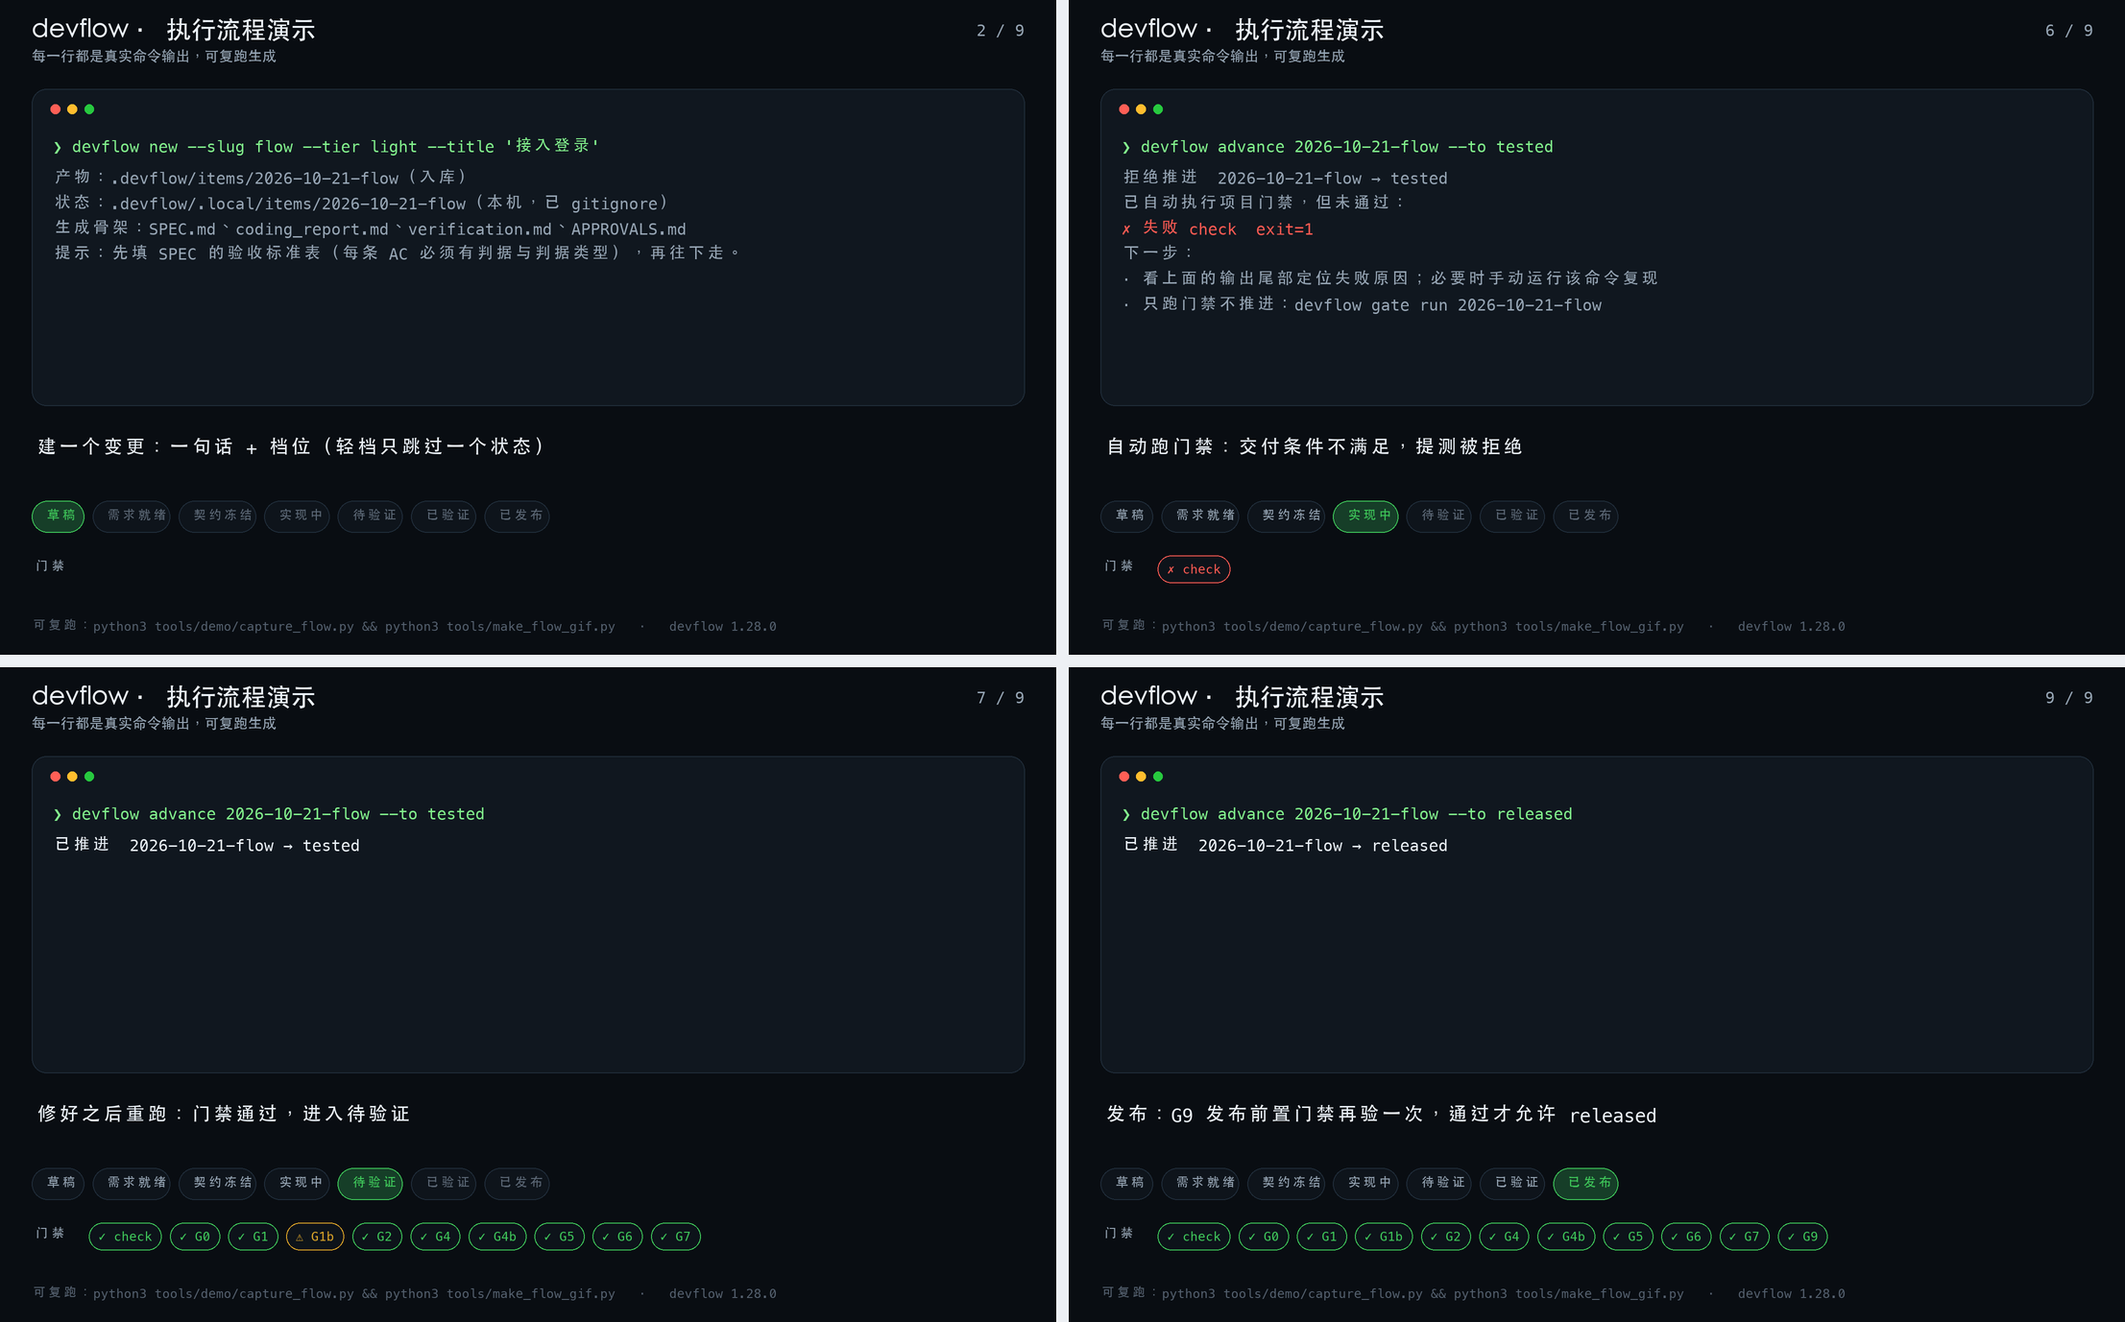
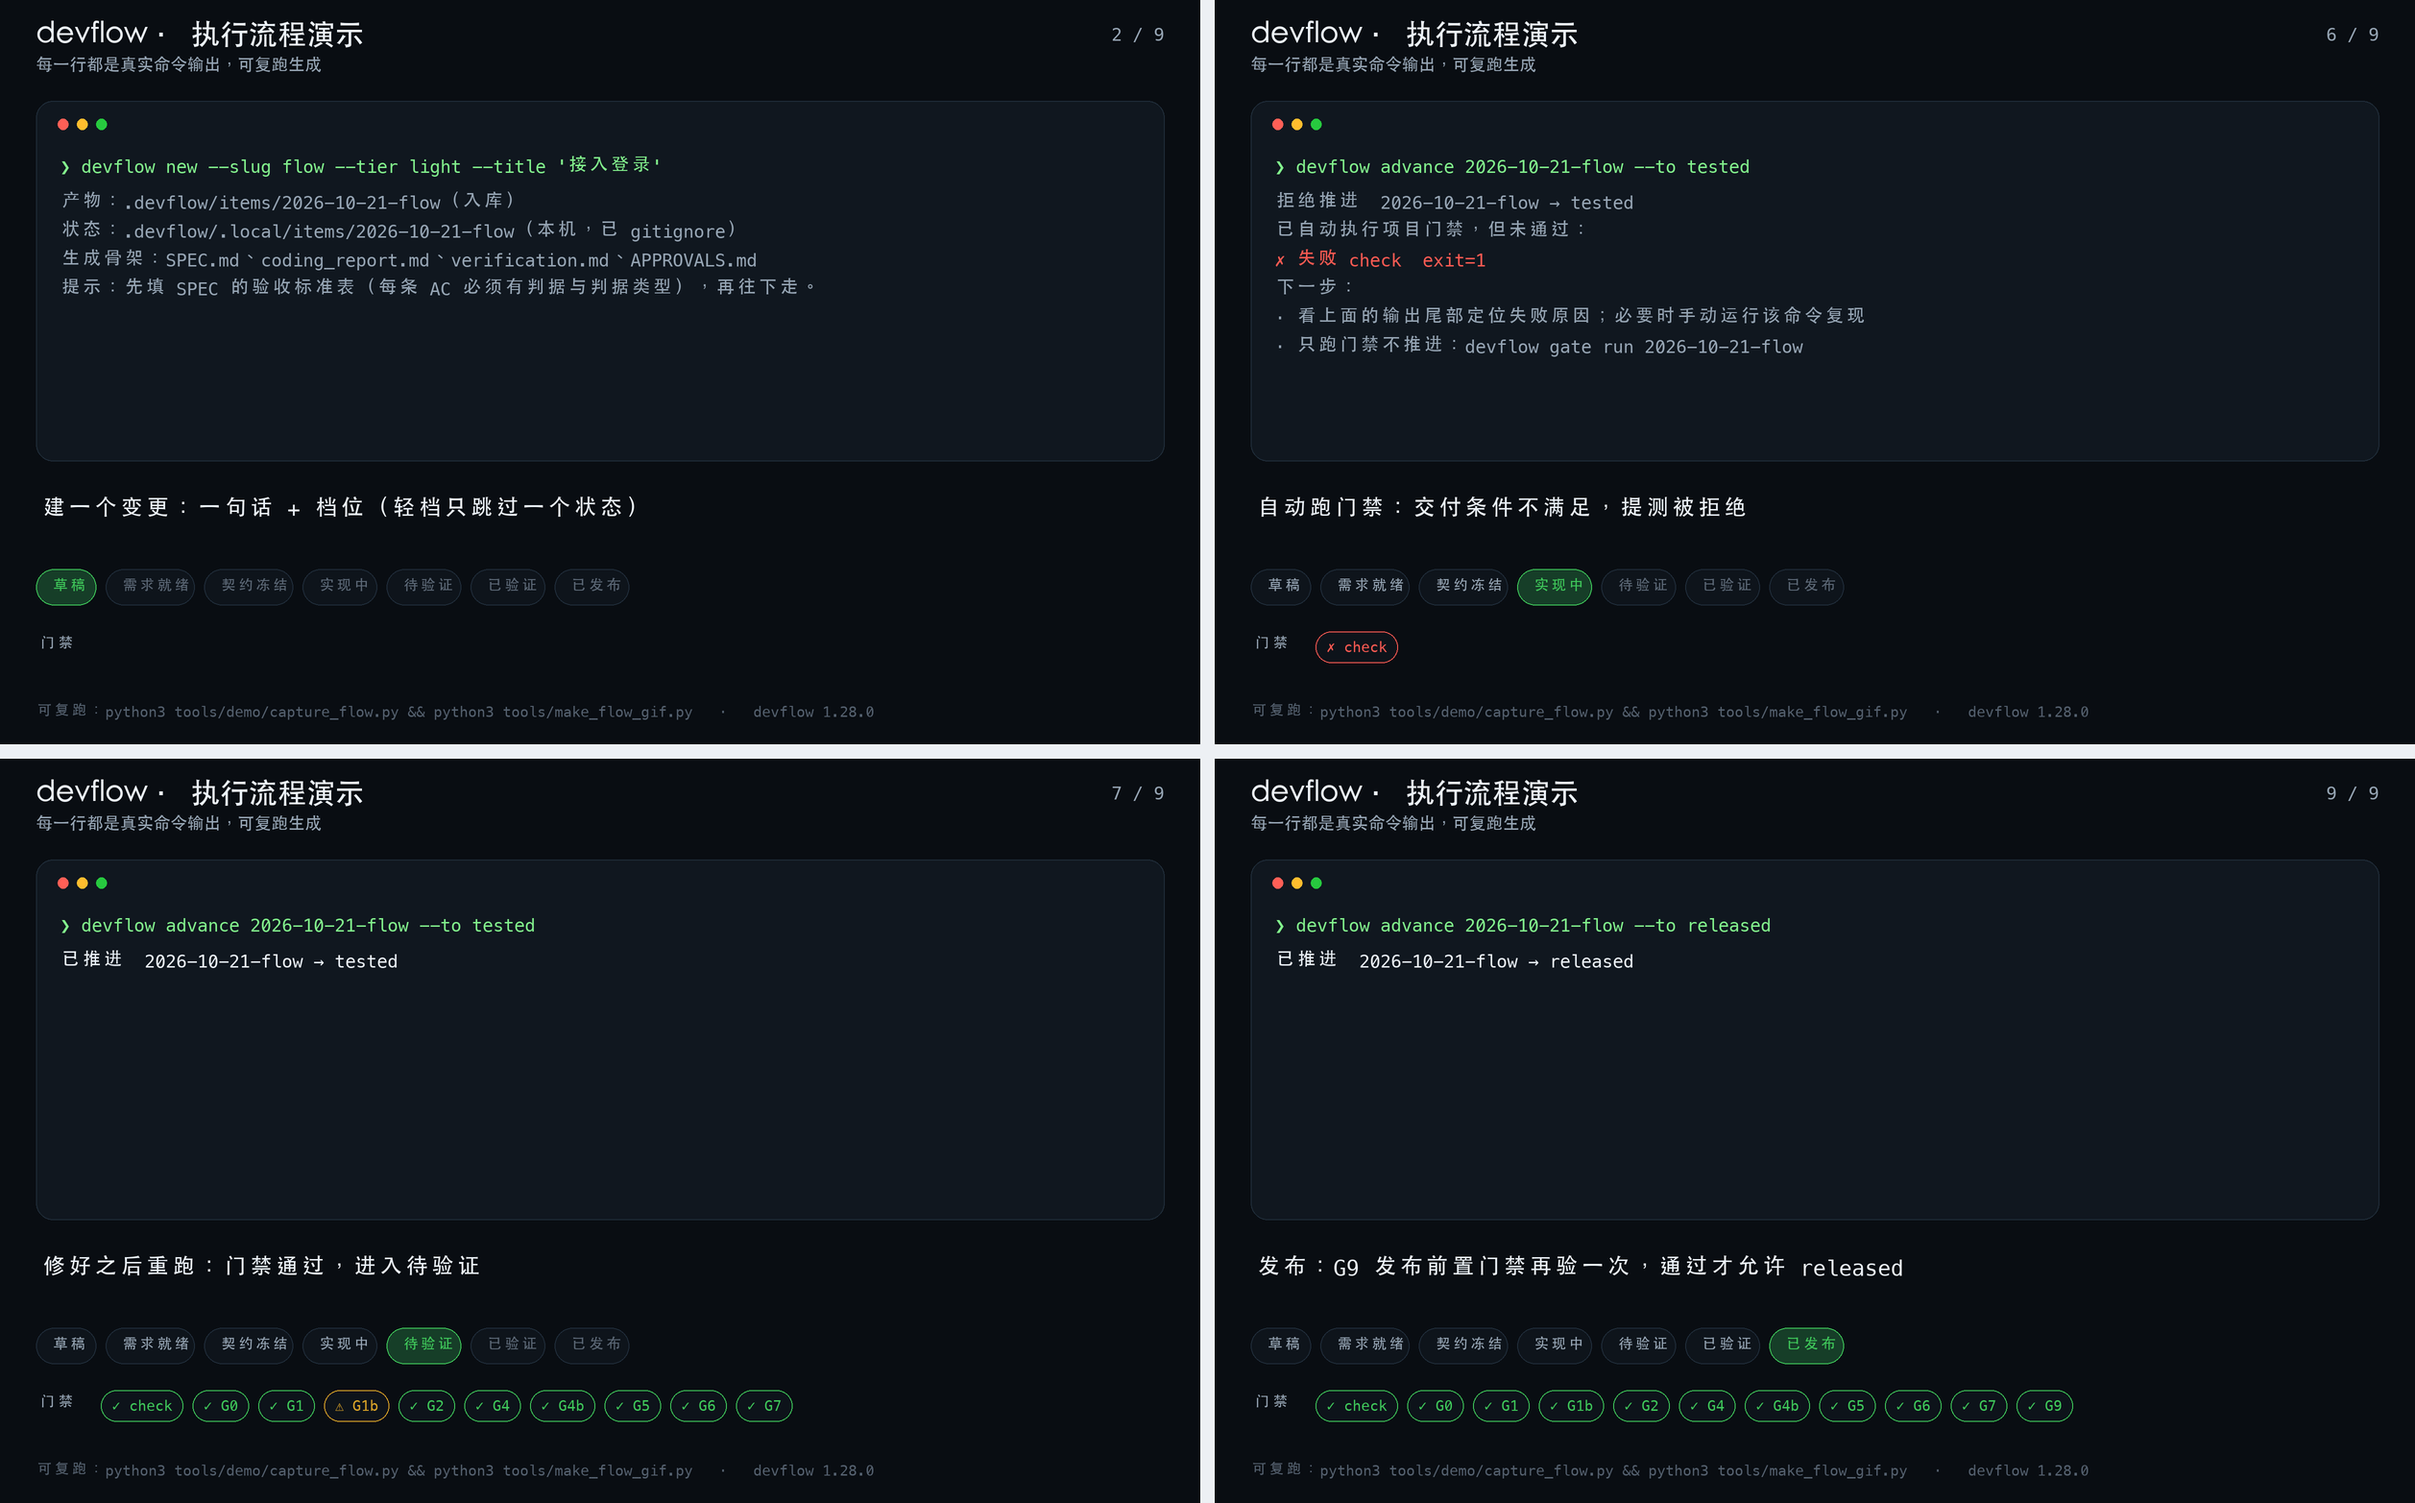
docs(demo): 首屏改静图（四格故事板），点击看动图
- README 顶部用 story.png（406KB）+ 链接到 GIF（1250×775，3.1MB）
- 动图放大到 1.25 倍，点开更清晰；时长标注改为 11 秒

diff --git a/tools/make_flow_gif.py b/tools/make_flow_gif.py
@@ -23,7 +23,7 @@ from PIL import Image, ImageDraw, ImageFont
 
 # 逻辑画布（设计坐标）
 LW, LH = 1000, 620
-SCALE = 1.1      # 输出尺寸 = 逻辑 × SCALE（9 步更长了，1100×682 兼顾清晰与体积）
+SCALE = 1.25     # 输出尺寸 = 逻辑 × SCALE（首屏用 PNG，GIF 可以更大更清晰）
 SS = 2           # 超采样倍数
 K = SCALE * SS   # 绘制时所有尺寸乘 K，最后缩 SS 倍
 

diff --git a/README.md b/README.md
@@ -9,9 +9,11 @@
 > **第一次用？直接看 [`docs/00-quickstart.md`](docs/00-quickstart.md)** —— 三条命令装好、从提需求到发版的操作指南。
 > 需要契约判定、看板插件、多仓工作区等增强时，看 [`docs/08-advanced.md`](docs/08-advanced.md)。
 
-## 看它怎么跑（约 15 秒）
+## 看它怎么跑（约 11 秒）
 
-![devflow 执行流程演示](docs/demo-flow.gif)
+[![devflow 执行流程：四格故事板（点击看动图）](docs/demo-flow-story.png)](docs/demo-flow.gif)
+
+<sub>**首屏是静图**（四格故事板，最清晰）；**点图看完整动图**（1250×775，约 3MB）。</sub>
 
 一个变更从建立到发布：**草稿 → 需求就绪 → 实现中**（提测时门禁不满足，**被拒**）**→ 待验证 → 已验证 → 已发布**。
 底部状态轨会逐节点亮起；发布前 **G9** 再验一次。轻档只跳过「契约冻结」一个状态——轨道上不会点亮的不是没跑，是**按档位跳过**。
@@ -22,8 +24,7 @@ python3 tools/demo/capture_flow.py --out docs/demo-flow.json   # 真跑一遍并
 python3 tools/make_flow_gif.py --data docs/demo-flow.json --out docs/demo-flow.gif
 ```
 
-<sub>静图版：[docs/demo-flow.png](docs/demo-flow.png)（末帧）· **四格故事板**：[docs/demo-flow-story.png](docs/demo-flow-story.png)（最清晰，适合贴文档/PPT）。
-动图 1200×744、2 倍超采样后缩回，文字边缘不糊；GIF 里每行是真实输出的**截断**（长行以 … 结尾），完整原文见 `docs/demo-flow.json`。
+<sub>末帧静图：[docs/demo-flow.png](docs/demo-flow.png)。动图 2 倍超采样后缩回，文字边缘不糊；GIF 里每行是真实输出的**截断**（长行以 … 结尾），完整原文见 [docs/demo-flow.json](docs/demo-flow.json)。
 生成图需要 Pillow —— **只用于演示渲染**，devflow 本体仍是零依赖。</sub>
 
 ## 先拿到它
